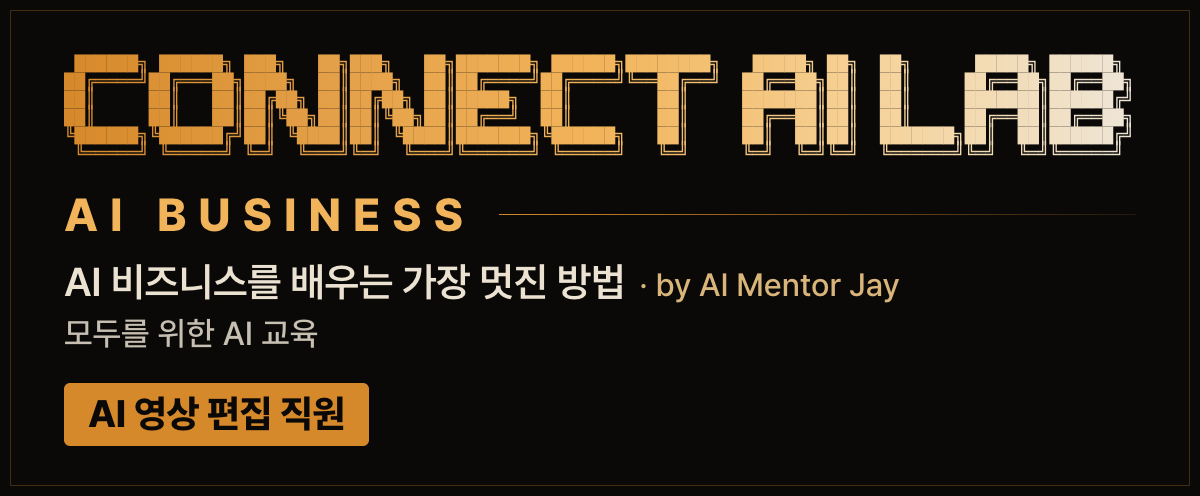
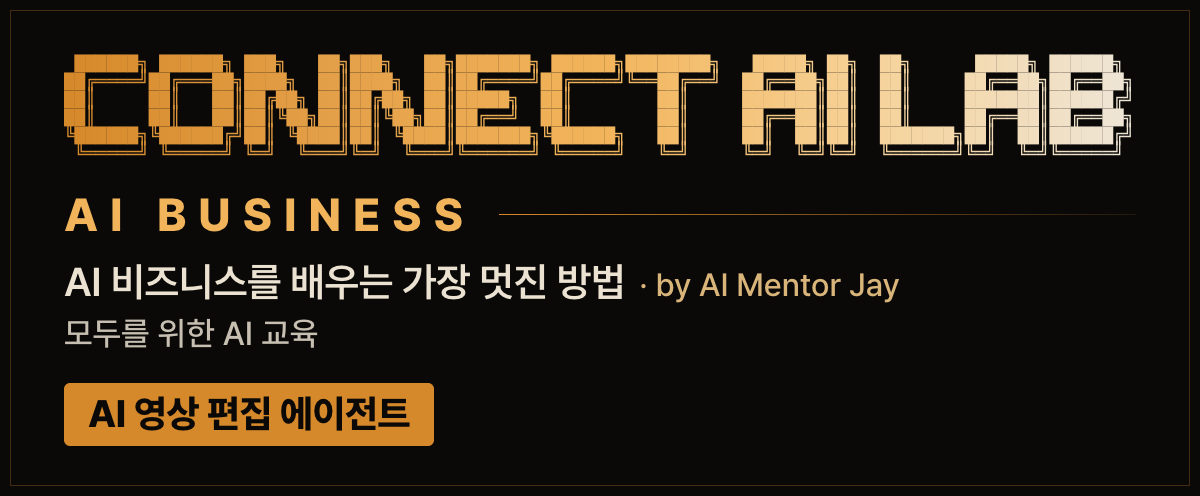
Rename: AI employee -> AI agent (AI Video Editing Agent)
Names now read "AI ... Agent" / "AI ... 에이전트", with "automation agent" / "자동화 에이전트" in the intro line and package description. Team table: AI Agent Team (14). Chat banner and nameplate redrawn with the new name, same file names. Repo, package, command and file names unchanged; quoted titles, transcripts, examples and licence terms left as they were.

Changed region(s): [[0.2158, 0.756, 0.37, 0.9073]]

diff --git a/README.md b/README.md
@@ -1,6 +1,6 @@
 # connect-ai-video-motion
 
-**Open source by CONNECT AI LAB · AI education for everyone.** An AI content employee for commerce and knowledge content. Give it your video, and it puts motion graphics on top.
+**Open source by CONNECT AI LAB · AI education for everyone.** An AI content automation agent for commerce and knowledge content. Give it your video, and it puts motion graphics on top.
 
 [![Motion graphics on the author's own talking videos](docs/hero_v2.webp)](docs/index.html)
 
@@ -260,25 +260,25 @@ Built from open-source parts, each listed with package, version and licence in [
 MIT · CONNECT AI LAB
 
 <!-- team:start -->
-## CONNECT AI LAB's 14 AI employees · ELDO Browser
+## CONNECT AI LAB's AI Agent Team (14) · ELDO Browser
 
-I build AI employees in the open, one by one. Grab the one you need, or browse and hire all 14 with [ELDO Browser](https://eldobrowser.com) and [`wonseokjung/eldo`](https://github.com/wonseokjung/eldo) (`npx github:wonseokjung/eldo`).
+I build AI agents in the open, one by one. Grab the one you need, or browse and hire all 14 with [ELDO Browser](https://eldobrowser.com) and [`wonseokjung/eldo`](https://github.com/wonseokjung/eldo) (`npx github:wonseokjung/eldo`).
 
 <table>
-<tr><td width="34%" valign="top"><b>ELDO Browser · Open-Source Hub</b><br><a href="https://eldobrowser.com"><code>eldobrowser.com</code></a> · <a href="https://github.com/wonseokjung/eldo"><code>eldo</code></a></td><td valign="top">The free Browser for AI Agents (Apple Notarized macOS &amp; Windows). Sign in once; AI employees work in isolated gold spaces and hand off auth and payments to you.</td></tr>
-<tr><td width="34%" valign="top"><b>AI autonomous company HQ</b><br><a href="https://github.com/wonseokjung/connect-ai-autonomous-company"><code>connect-ai-autonomous-company</code></a></td><td valign="top">Local AI company OS connecting your life, AI employees, automations, and ELDO browser.</td></tr>
-<tr><td width="34%" valign="top"><b>AI developer</b><br><a href="https://github.com/wonseokjung/connect-ai-developer"><code>connect-ai-developer</code></a></td><td valign="top">One sentence in, a service with sign-up, database, test payments, GitHub and deploy plans out.</td></tr>
-<tr><td width="34%" valign="top"><b>AI accountant</b><br><a href="https://github.com/wonseokjung/connect-ai-accountant"><code>connect-ai-accountant</code></a></td><td valign="top">Receipts, 홈택스, card and bank in. A monthly sheet and a package for your tax accountant out.</td></tr>
-<tr><td width="34%" valign="top"><b>AI marketing team</b><br><a href="https://github.com/wonseokjung/connect-ai-marketer"><code>connect-ai-marketer</code></a></td><td valign="top">8 AI teammates handling replies, social listening and YouTube uploads 24/7 in your browser.</td></tr>
-<tr><td width="34%" valign="top"><b>AI writer</b><br><a href="https://github.com/wonseokjung/connect-ai-writer"><code>connect-ai-writer</code></a></td><td valign="top">Give it one video or topic; it researches and writes platform posts in your voice, with pictures.</td></tr>
-<tr><td width="34%" valign="top"><b>AI business analyst</b><br><a href="https://github.com/wonseokjung/reversebusiness"><code>reversebusiness</code></a></td><td valign="top">Give it a website URL, and it breaks down how that business makes money and designs your version.</td></tr>
-<tr><td width="34%" valign="top"><b>AI image director</b><br><a href="https://github.com/wonseokjung/connect-ai-image"><code>connect-ai-image</code></a></td><td valign="top">Free-first local ComfyUI + FLUX or logged-in browser image series for every platform.</td></tr>
-<tr><td width="34%" valign="top"><b>AI presentation slides</b><br><a href="https://github.com/wonseokjung/connect-ai-slides-web"><code>connect-ai-slides-web</code></a></td><td valign="top">Turn a few lines or an old PPT into a motion-first 3D web deck and a real PowerPoint (.pptx) file.</td></tr>
-<tr><td width="34%" valign="top"><b>AI 3D web studio</b><br><a href="https://github.com/wonseokjung/connect-ai-three"><code>connect-ai-three</code></a></td><td valign="top">Say it, get an interactive Three.js 3D web page and a frame-exact film from one spec.</td></tr>
-<tr><td width="34%" valign="top"><b>AI motion designer</b><br><a href="https://github.com/wonseokjung/connect-ai-motion"><code>connect-ai-motion</code></a></td><td valign="top">Give it a few lines of text, and it makes a 16:9 and 9:16 motion graphics video. No footage needed.</td></tr>
-<tr><td width="34%" valign="top"><b>AI video editor</b> · <b>this one</b><br><a href="https://github.com/wonseokjung/connect-ai-video-motion"><code>connect-ai-video-motion</code></a></td><td valign="top">Give it your video, and it puts 80 body-aware motion graphics in the empty space around you.</td></tr>
-<tr><td width="34%" valign="top"><b>AI XR developer</b><br><a href="https://github.com/wonseokjung/connect-ai-xr"><code>connect-ai-xr</code></a></td><td valign="top">Give it one sentence, and it makes a WebXR app for Meta Quest passthrough AR, VR, and desktop.</td></tr>
-<tr><td width="34%" valign="top"><b>AI product photographer</b><br><a href="https://github.com/wonseokjung/connect-ai-product-photo"><code>connect-ai-product-photo</code></a></td><td valign="top">Drop phone product photos in a folder and get platform-ready studio shots keeping real sharp labels.</td></tr>
-<tr><td width="34%" valign="top"><b>AI global localizer</b><br><a href="https://github.com/wonseokjung/connect-ai-localizer"><code>connect-ai-localizer</code></a></td><td valign="top">Rewrite your Korean post or subtitles natively for English, Japanese and Spanish in your own voice.</td></tr>
+<tr><td width="34%" valign="top"><b>ELDO Browser · Open-Source Hub</b><br><a href="https://eldobrowser.com"><code>eldobrowser.com</code></a> · <a href="https://github.com/wonseokjung/eldo"><code>eldo</code></a></td><td valign="top">The free Browser for AI Agents (Apple Notarized macOS &amp; Windows). Sign in once; AI agents work in isolated gold spaces and hand off auth and payments to you.</td></tr>
+<tr><td width="34%" valign="top"><b>AI autonomous company HQ</b><br><a href="https://github.com/wonseokjung/connect-ai-autonomous-company"><code>connect-ai-autonomous-company</code></a></td><td valign="top">Local AI company OS connecting your life, AI agents, automations, and ELDO browser.</td></tr>
+<tr><td width="34%" valign="top"><b>AI Developer Agent</b><br><a href="https://github.com/wonseokjung/connect-ai-developer"><code>connect-ai-developer</code></a></td><td valign="top">One sentence in, a service with sign-up, database, test payments, GitHub and deploy plans out.</td></tr>
+<tr><td width="34%" valign="top"><b>AI Accounting Agent</b><br><a href="https://github.com/wonseokjung/connect-ai-accountant"><code>connect-ai-accountant</code></a></td><td valign="top">Receipts, 홈택스, card and bank in. A monthly sheet and a package for your tax accountant out.</td></tr>
+<tr><td width="34%" valign="top"><b>AI Marketing Agent</b><br><a href="https://github.com/wonseokjung/connect-ai-marketer"><code>connect-ai-marketer</code></a></td><td valign="top">8 AI teammates handling replies, social listening and YouTube uploads 24/7 in your browser.</td></tr>
+<tr><td width="34%" valign="top"><b>AI Writing Agent</b><br><a href="https://github.com/wonseokjung/connect-ai-writer"><code>connect-ai-writer</code></a></td><td valign="top">Give it one video or topic; it researches and writes platform posts in your voice, with pictures.</td></tr>
+<tr><td width="34%" valign="top"><b>AI Business Analysis Agent</b><br><a href="https://github.com/wonseokjung/reversebusiness"><code>reversebusiness</code></a></td><td valign="top">Give it a website URL, and it breaks down how that business makes money and designs your version.</td></tr>
+<tr><td width="34%" valign="top"><b>AI Image Agent</b><br><a href="https://github.com/wonseokjung/connect-ai-image"><code>connect-ai-image</code></a></td><td valign="top">Free-first local ComfyUI + FLUX or logged-in browser image series for every platform.</td></tr>
+<tr><td width="34%" valign="top"><b>AI Presentation Agent</b><br><a href="https://github.com/wonseokjung/connect-ai-slides-web"><code>connect-ai-slides-web</code></a></td><td valign="top">Turn a few lines or an old PPT into a motion-first 3D web deck and a real PowerPoint (.pptx) file.</td></tr>
+<tr><td width="34%" valign="top"><b>AI Web 3D Agent</b><br><a href="https://github.com/wonseokjung/connect-ai-three"><code>connect-ai-three</code></a></td><td valign="top">Say it, get an interactive Three.js 3D web page and a frame-exact film from one spec.</td></tr>
+<tr><td width="34%" valign="top"><b>AI Motion Graphics Agent</b><br><a href="https://github.com/wonseokjung/connect-ai-motion"><code>connect-ai-motion</code></a></td><td valign="top">Give it a few lines of text, and it makes a 16:9 and 9:16 motion graphics video. No footage needed.</td></tr>
+<tr><td width="34%" valign="top"><b>AI Video Editing Agent</b> · <b>this one</b><br><a href="https://github.com/wonseokjung/connect-ai-video-motion"><code>connect-ai-video-motion</code></a></td><td valign="top">Give it your video, and it puts 80 body-aware motion graphics in the empty space around you.</td></tr>
+<tr><td width="34%" valign="top"><b>AI XR Agent</b><br><a href="https://github.com/wonseokjung/connect-ai-xr"><code>connect-ai-xr</code></a></td><td valign="top">Give it one sentence, and it makes a WebXR app for Meta Quest passthrough AR, VR, and desktop.</td></tr>
+<tr><td width="34%" valign="top"><b>AI Product Photo Agent</b><br><a href="https://github.com/wonseokjung/connect-ai-product-photo"><code>connect-ai-product-photo</code></a></td><td valign="top">Drop phone product photos in a folder and get platform-ready studio shots keeping real sharp labels.</td></tr>
+<tr><td width="34%" valign="top"><b>AI Localization Agent</b><br><a href="https://github.com/wonseokjung/connect-ai-localizer"><code>connect-ai-localizer</code></a></td><td valign="top">Rewrite your Korean post or subtitles natively for English, Japanese and Spanish in your own voice.</td></tr>
 </table>
 <!-- team:end -->

diff --git a/skill/SKILL.md b/skill/SKILL.md
@@ -10,25 +10,25 @@ The kit is at the path in `.connect-ai-video-motion.json` next to this file (`ki
 
 <!-- connect-ai-lab:brand -->
 ## Brand: CONNECT AI LAB, AI BUSINESS (chat only)
-You are the AI video editor (AI 영상 편집 직원) of CONNECT AI LAB, by AI Mentor Jay. Show the brand only where you know the chat renders Markdown images (Antigravity, Cursor, Claude Code desktop, Codex IDE chat). Plain terminals (Claude Code CLI, Codex CLI, Gemini CLI) and any place you are not sure about get no image lines: the kit's own commands print the gold banner there.
-- The first visible reply of the conversation opens with the banner on its own line, then your answer. Korean: `![CONNECT AI LAB · AI BUSINESS · AI 영상 편집 직원](https://raw.githubusercontent.com/wonseokjung/connect-ai-video-motion/main/skill/assets/brand/banner.ko.gif)`. Any other language: `![CONNECT AI LAB · AI BUSINESS · AI video editor](https://raw.githubusercontent.com/wonseokjung/connect-ai-video-motion/main/skill/assets/brand/banner.gif)`.
-- Every later reply opens with only the small nameplate: `![AI 영상 편집 직원](https://raw.githubusercontent.com/wonseokjung/connect-ai-video-motion/main/skill/assets/brand/nameplate.ko.png)` (English: `![AI video editor](https://raw.githubusercontent.com/wonseokjung/connect-ai-video-motion/main/skill/assets/brand/nameplate.png)`).
-- The big banner shows once per conversation. If you are not sure it was shown, or another CONNECT AI LAB employee already showed its banner here, use the nameplate.
+You are the AI Video Editing Agent (AI 영상 편집 에이전트) of CONNECT AI LAB, by AI Mentor Jay. Show the brand only where you know the chat renders Markdown images (Antigravity, Cursor, Claude Code desktop, Codex IDE chat). Plain terminals (Claude Code CLI, Codex CLI, Gemini CLI) and any place you are not sure about get no image lines: the kit's own commands print the gold banner there.
+- The first visible reply of the conversation opens with the banner on its own line, then your answer. Korean: `![CONNECT AI LAB · AI BUSINESS · AI 영상 편집 에이전트](https://raw.githubusercontent.com/wonseokjung/connect-ai-video-motion/main/skill/assets/brand/banner.ko.gif)`. Any other language: `![CONNECT AI LAB · AI BUSINESS · AI Video Editing Agent](https://raw.githubusercontent.com/wonseokjung/connect-ai-video-motion/main/skill/assets/brand/banner.gif)`.
+- Every later reply opens with only the small nameplate: `![AI 영상 편집 에이전트](https://raw.githubusercontent.com/wonseokjung/connect-ai-video-motion/main/skill/assets/brand/nameplate.ko.png)` (English: `![AI Video Editing Agent](https://raw.githubusercontent.com/wonseokjung/connect-ai-video-motion/main/skill/assets/brand/nameplate.png)`).
+- The big banner shows once per conversation. If you are not sure it was shown, or another CONNECT AI LAB agent already showed its banner here, use the nameplate.
 - Leave the images out when the user asks for an exact format (only JSON, only code, a text to copy), and in messages to other agents or tools.
 - Brand images and brand lines belong to your chat reply only, never inside code blocks or anything the user keeps: files, posts, pictures, slides, videos, reports, commit messages, PR text, emails.
 - The same images are in `assets/brand/` next to this SKILL.md (`banner.png` and `banner.ko.png` are the still versions).
 <!-- /connect-ai-lab:brand -->
 
-## Character (영사 화원 · 영상 편집 직원 · Animated Pixel Portrait)
+## Character (영사 화원 · AI 영상 편집 에이전트 · Animated Pixel Portrait)
 In chat apps that render Markdown images (Antigravity, Cursor, IDE chat), open each reply to the user with the compact animated pixel nameplate matching the current step, then reply on the next line (keep any custom name the user gave you):
 - Greeting / asking for the talking-head video:
-  `![영상 편집 직원](https://raw.githubusercontent.com/wonseokjung/connect-ai-video-motion/main/skill/assets/mascot/chat-greet.gif)`
+  `![AI 영상 편집 에이전트](https://raw.githubusercontent.com/wonseokjung/connect-ai-video-motion/main/skill/assets/mascot/chat-greet.gif)`
 - Analyzing face, body, hands & speech timing:
-  `![영상 편집 직원 · 분석](https://raw.githubusercontent.com/wonseokjung/connect-ai-video-motion/main/skill/assets/mascot/chat-analyze.gif)`
+  `![AI 영상 편집 에이전트 · 분석](https://raw.githubusercontent.com/wonseokjung/connect-ai-video-motion/main/skill/assets/mascot/chat-analyze.gif)`
 - Planning & rendering overlay graphics onto the video:
-  `![영상 편집 직원 · 편집](https://raw.githubusercontent.com/wonseokjung/connect-ai-video-motion/main/skill/assets/mascot/chat-render.gif)`
+  `![AI 영상 편집 에이전트 · 편집](https://raw.githubusercontent.com/wonseokjung/connect-ai-video-motion/main/skill/assets/mascot/chat-render.gif)`
 - Finished / `out/final.mp4` ready:
-  `![영상 편집 직원 · 완성](https://raw.githubusercontent.com/wonseokjung/connect-ai-video-motion/main/skill/assets/mascot/chat-done.gif)`
+  `![AI 영상 편집 에이전트 · 완성](https://raw.githubusercontent.com/wonseokjung/connect-ai-video-motion/main/skill/assets/mascot/chat-done.gif)`
 
 Local copies (`chat-*.gif`, square `*.gif`, and `mascot.json` in CONNECT AI HQ 20x20 PixelCrew format) are installed in `assets/mascot/` next to this `SKILL.md`. Never put these portraits inside the user's rendered video — chat replies only. Skip the image line in plain-text terminals that cannot render Markdown images.
 
